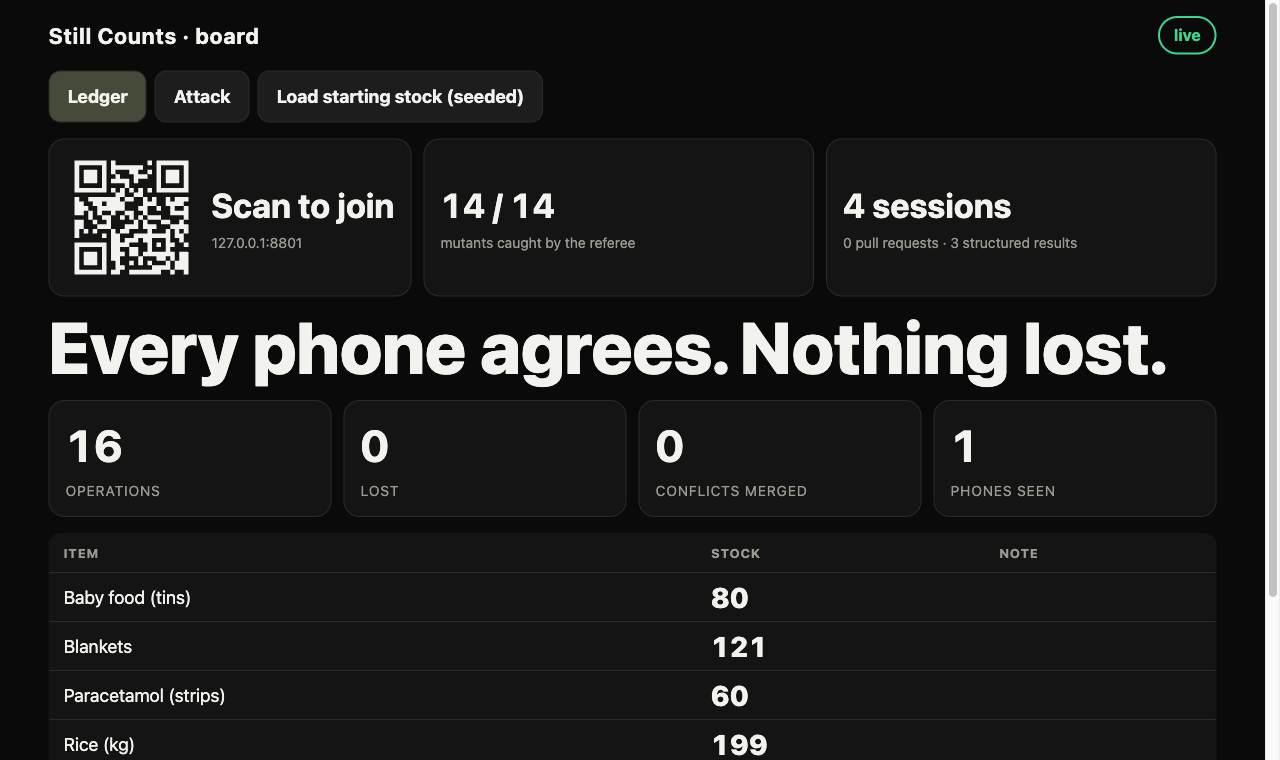
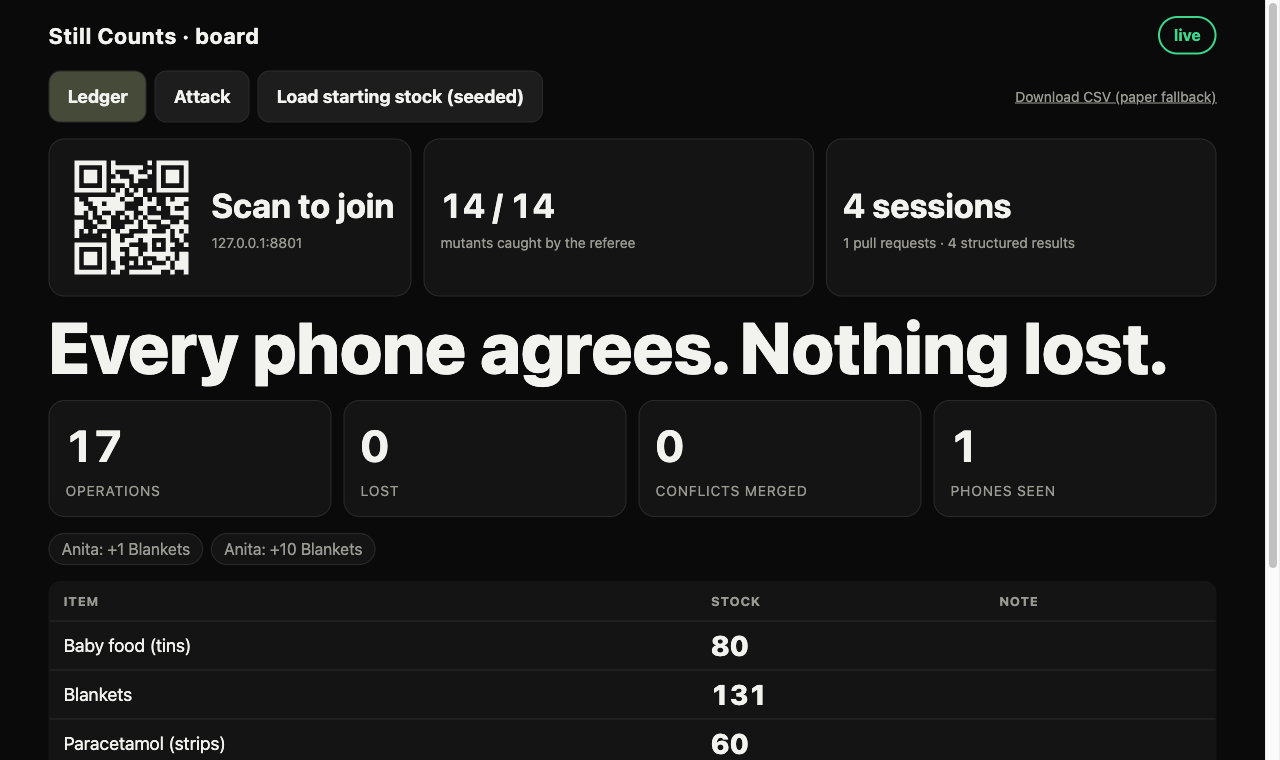
feat: volunteer names, activity feed and CSV export for the paper fallback

diff --git a/client/app.js b/client/app.js
@@ -21,6 +21,7 @@
   var epoch = saved.epoch || null;
   var rejected = saved.rejected || 0;
   var clock = new C.Clock(replica, saved.lamport || 0);
+  var myName = load("sc_name", "");
   var known = {}; ops.forEach(function (o) { known[o.id] = true; });
   var online = false, busy = false, lastSync = null;
 
@@ -48,7 +49,7 @@
     if (busy) return; busy = true;
     var unsent = ops.filter(function (o) { return !synced[o.id]; });
     fetch("/api/sync", { method: "POST", headers: { "Content-Type": "application/json" },
-                         body: JSON.stringify({ replica: replica, cursor: cursor, epoch: epoch, ops: unsent.slice(0, 500) }) })
+                         body: JSON.stringify({ replica: replica, name: myName || null, cursor: cursor, epoch: epoch, ops: unsent.slice(0, 500) }) })
       .then(function (r) { if (!r.ok) throw new Error("HTTP " + r.status); return r.json(); })
       .then(function (body) {
         unsent.slice(0, 500).forEach(function (o) { synced[o.id] = true; });
@@ -103,6 +104,10 @@
     var id = name.toLowerCase().replace(/[^a-z0-9]+/g, "-").replace(/^-|-$/g, "").slice(0, 40) || "item";
     addOp("create", id, name); input.value = "";
   });
+
+  var me = document.getElementById("me");
+  me.value = myName;
+  me.addEventListener("change", function () { myName = me.value.trim(); save("sc_name", myName); sync(); });
 
   if ("serviceWorker" in navigator) navigator.serviceWorker.register("/sw.js").catch(function () {});
   window.addEventListener("online", sync);

diff --git a/client/board.html b/client/board.html
@@ -27,6 +27,9 @@ td.neg { color: var(--bad); }
 .panel b { font-size:34px; font-variant-numeric: tabular-nums; }
 .panel span { color: var(--muted); font-size:14px; word-break:break-all; }
 @media (max-width:760px){ .panels{grid-template-columns:1fr;} }
+.csv { margin-left:auto; align-self:center; color: var(--muted); font-size:14px; }
+.feed { margin: 8px 0 16px; color: var(--muted); font-size: 16px; min-height: 28px; display:flex; flex-wrap:wrap; gap:8px; }
+.feed span { background: var(--panel); border:1px solid var(--line); border-radius:999px; padding:4px 12px; }
 </style>
 </head>
 <body>
@@ -36,6 +39,7 @@ td.neg { color: var(--bad); }
     <button type="button" id="tab-ledger" aria-pressed="true">Ledger</button>
     <button type="button" id="tab-attack" aria-pressed="false">Attack</button>
     <button type="button" id="seed">Load starting stock (seeded)</button>
+    <a class="csv" href="/api/export.csv" download>Download CSV (paper fallback)</a>
   </div>
   <section id="ledger">
     <div class="panels">
@@ -50,6 +54,7 @@ td.neg { color: var(--bad); }
       <div class="stat"><b id="s-conf">0</b><span>conflicts merged</span></div>
       <div class="stat"><b id="s-phones">0</b><span>phones seen</span></div>
     </div>
+    <div class="feed" id="feed" aria-live="polite"></div>
     <table><thead><tr><th>Item</th><th>Stock</th><th>Note</th></tr></thead><tbody id="rows"></tbody></table>
   </section>
   <section id="attack" class="hidden">

diff --git a/client/board.js b/client/board.js
@@ -16,6 +16,10 @@
     $("s-ops").textContent = String(data.stats.ops);
     $("s-conf").textContent = String(data.stats.conflicts);
     $("s-phones").textContent = String(data.replicas.filter(function (r) { return r !== "seed"; }).length);
+    var feed = $("feed"); feed.replaceChildren();
+    (data.activity || []).filter(function (a) { return a.who !== "seed"; }).slice(-6).forEach(function (a) {
+      feed.appendChild(cell("span", "", a.who + ": " + a.text));
+    });
     var over = data.stats.oversold.length;
     $("headline").textContent = data.stats.ops === 0 ? "Waiting for phones"
       : (over ? over + " item(s) need a human" : "Every phone agrees. Nothing lost.");

diff --git a/client/index.html b/client/index.html
@@ -15,6 +15,7 @@
     <span id="status" class="pill" role="status" aria-live="polite">starting</span>
   </header>
   <div class="sub">Field camp ledger. Keeps counting with no signal. <span id="who"></span></div>
+  <input id="me" class="note" type="text" maxlength="40" placeholder="Your name (so the board shows who counted)" aria-label="Your name" style="margin:0 0 14px">
   <div id="list"></div>
   <div class="add">
     <input id="newitem" type="text" placeholder="Add an item (for example Lanterns)" maxlength="40" aria-label="New item name">

diff --git a/server/app.py b/server/app.py
@@ -1,6 +1,7 @@
 """The 'base' sync server. It only stores and relays operations; all merging is the pure CRDT, so it can never lose an update."""
 from __future__ import annotations
 
+import csv
 import io
 import json
 import os
@@ -77,6 +78,7 @@ class SyncIn(BaseModel):
     replica: str = Field(min_length=1, max_length=MAX_ID)
     cursor: int = Field(ge=0, default=0)
     epoch: str | None = Field(default=None, max_length=64)
+    name: str | None = Field(default=None, max_length=200)
     ops: list[Any] = Field(default_factory=list, max_length=MAX_OPS_PER_SYNC)
 
 
@@ -164,6 +166,23 @@ def create_app(store_path: str | Path = ROOT / "data" / "ops.jsonl",
                notifier: Callable[[str, str], None] | None = None) -> FastAPI:
     app = FastAPI(title="Still Counts base")
     store = LogStore(Path(store_path))
+    names_path = Path(store_path).with_suffix(Path(store_path).suffix + ".names")
+    try:
+        names: dict[str, str] = json.loads(names_path.read_text())
+    except (OSError, ValueError):
+        names = {}
+
+    def remember_name(replica: str, name: str | None) -> None:
+        if not name or _clean_text(name.strip(), 40) is not None:
+            return
+        names[replica] = name.strip()
+        names_path.write_text(json.dumps(names, ensure_ascii=False))
+
+    def describe(op: Op, state: dict) -> str:
+        label = state.get(op.item, {}).get("name", op.item)
+        if op.kind == "adjust":
+            return f"{'+' if op.value > 0 else ''}{op.value} {label}"
+        return {"create": f"named {op.item} {op.value!r}", "note": f"noted {label}", "delete": ("removed " if op.value else "restored ") + label}[op.kind]
     notified: set[str] = set()
 
     def check_oversell() -> None:
@@ -183,6 +202,7 @@ def create_app(store_path: str | Path = ROOT / "data" / "ops.jsonl",
 
     @app.post("/api/sync")
     def sync(body: SyncIn) -> dict:
+        remember_name(body.replica, body.name)
         accepted: list[Op] = []
         rejected: list[dict] = []
         with store.lock:                          # one consistent snapshot: validate, append, then slice the log
@@ -210,8 +230,30 @@ def create_app(store_path: str | Path = ROOT / "data" / "ops.jsonl",
     def state() -> dict:
         with store.lock:
             ops = list(store.ops)
-        return {"state": merge(ops), "stats": stats(ops), "log_size": len(ops),
-                "replicas": sorted({o.replica for o in ops})}
+        merged = merge(ops)
+        activity = [{"who": names.get(o.replica, o.replica), "text": describe(o, merged)} for o in ops[-10:]]
+        return {"state": merged, "stats": stats(ops), "log_size": len(ops), "names": dict(names),
+                "replicas": sorted({o.replica for o in ops}), "activity": activity}
+
+    @app.get("/api/export.csv")
+    def export_csv() -> Response:
+        """A paper-fallback export: item, name, quantity, note, status. Cells that could run as spreadsheet formulas are neutralised."""
+        with store.lock:
+            ops = list(store.ops)
+        merged = merge(ops)
+        over = set(stats(ops)["oversold"])
+
+        def safe(value: str) -> str:
+            return "'" + value if value[:1] in ("=", "+", "-", "@", "\t", "\r") else value
+
+        out = io.StringIO()
+        writer = csv.writer(out)
+        writer.writerow(["item", "name", "qty", "note", "status"])
+        for item, s in merged.items():
+            if s["alive"]:
+                writer.writerow([safe(item), safe(s["name"]), s["qty"], safe(s["note"]), "needs a human" if item in over else "ok"])
+        return Response(out.getvalue(), media_type="text/csv",
+                        headers={"Content-Disposition": "attachment; filename=stillcounts-ledger.csv"})
 
     SEED_STOCK = {"blankets": 100, "rice": 200, "water": 500, "paracetamol": 60, "tarpaulin": 40, "baby-food": 80}
     SEED_NAMES = {"blankets": "Blankets", "rice": "Rice (kg)", "water": "Drinking water (L)",

diff --git a/tests/test_product_features.py b/tests/test_product_features.py
@@ -1,0 +1,61 @@
+import csv
+import io
+
+from fastapi.testclient import TestClient
+
+from server.app import create_app
+
+
+def op(i, replica="ph-a", lamport=1, kind="adjust", item="rice", value=5):
+    return {"id": f"{replica}:{i}", "replica": replica, "lamport": lamport, "kind": kind, "item": item, "value": value}
+
+
+def make(tmp_path):
+    return TestClient(create_app(tmp_path / "ops.jsonl"))
+
+
+def test_csv_export_lists_each_item_with_status(tmp_path):
+    c = make(tmp_path)
+    c.post("/api/sync", json={"replica": "ph-a", "cursor": 0, "ops": [
+        op(1, kind="create", item="blankets", value="Blankets"), op(2, item="blankets", value=10),
+        op(3, "ph-a", 2, "adjust", "blankets", -13), op(4, kind="note", item="rice", value="check, \"quoted\"")]})
+    r = c.get("/api/export.csv")
+    assert r.status_code == 200 and r.headers["content-type"].startswith("text/csv")
+    rows = list(csv.DictReader(io.StringIO(r.text)))
+    by = {x["item"]: x for x in rows}
+    assert by["blankets"]["name"] == "Blankets" and by["blankets"]["qty"] == "-3" and by["blankets"]["status"] == "needs a human"
+    assert by["rice"]["note"] == 'check, "quoted"' and by["rice"]["status"] == "ok"
+
+
+def test_csv_export_neutralises_spreadsheet_formulas(tmp_path):
+    c = make(tmp_path)
+    c.post("/api/sync", json={"replica": "ph-a", "cursor": 0, "ops": [op(1, kind="note", item="rice", value="=HYPERLINK(\"http://evil\")")]})
+    row = list(csv.DictReader(io.StringIO(c.get("/api/export.csv").text)))[0]
+    assert row["note"].startswith("'")
+
+
+def test_volunteer_names_are_remembered_and_shown(tmp_path):
+    c = make(tmp_path)
+    c.post("/api/sync", json={"replica": "ph-a", "name": "Anita", "cursor": 0, "ops": [op(1, item="blankets", value=10)]})
+    s = c.get("/api/state").json()
+    assert s["names"]["ph-a"] == "Anita"
+    assert s["activity"][-1]["who"] == "Anita" and "+10" in s["activity"][-1]["text"] and "blankets" in s["activity"][-1]["text"].lower()
+
+
+def test_names_persist_across_restarts_and_are_validated(tmp_path):
+    c = make(tmp_path)
+    c.post("/api/sync", json={"replica": "ph-a", "name": "Anita", "cursor": 0, "ops": []})
+    c.post("/api/sync", json={"replica": "ph-b", "name": "x" * 200, "cursor": 0, "ops": []})
+    c.post("/api/sync", json={"replica": "ph-c", "name": "bad\u0000name", "cursor": 0, "ops": []})
+    c2 = make(tmp_path)
+    names = c2.get("/api/state").json()["names"]
+    assert names == {"ph-a": "Anita"}
+
+
+def test_activity_feed_shows_the_latest_operations_in_order(tmp_path):
+    c = make(tmp_path)
+    ops = [op(i, item="rice", value=i) for i in range(1, 15)]
+    c.post("/api/sync", json={"replica": "ph-a", "cursor": 0, "ops": ops})
+    act = c.get("/api/state").json()["activity"]
+    assert len(act) == 10 and "+14" in act[-1]["text"]
+    assert [a["who"] for a in act] == ["ph-a"] * 10
